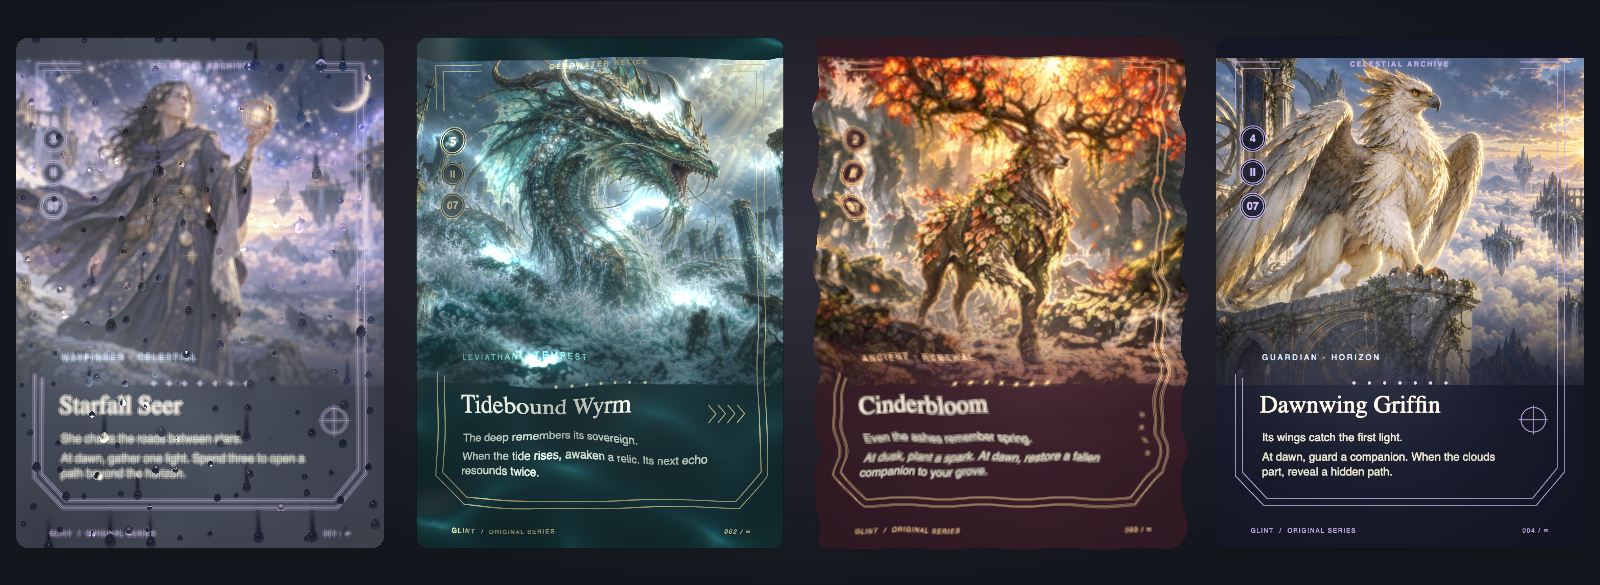
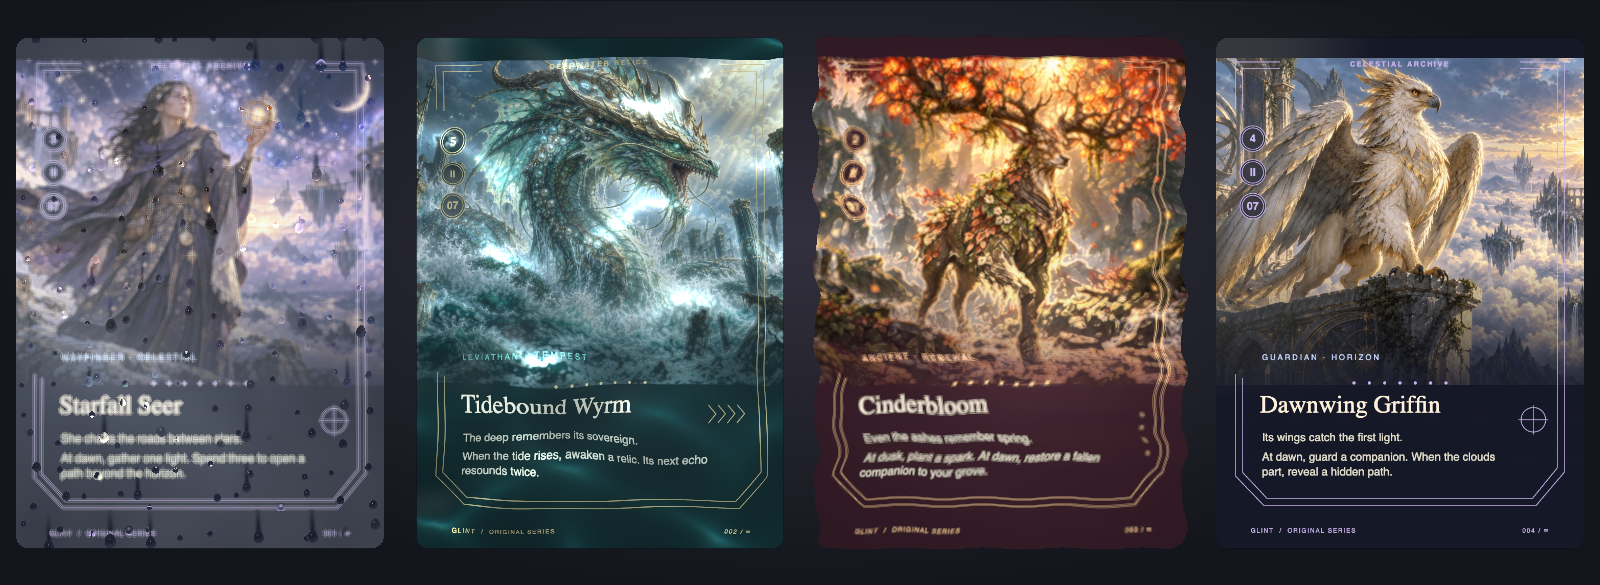
Replace gloss with fixed softbox lighting and strengthen it ten percent

Changed region(s): [[0.7812, 0.3077, 0.9375, 0.7077], [0.75, 0.0615, 0.8125, 0.1538], [0.7812, 0.2154, 0.8125, 0.2462]]

diff --git a/packages/browser/src/gpu/foil-preview-shader.ts b/packages/browser/src/gpu/foil-preview-shader.ts
@@ -6,7 +6,7 @@ import { STUDIO_GLOSS_GLSL } from './studio-gloss-shader.js';
 // Shared by the DOM motion fixture and the 3D card face pass. Preview finishes
 // are presentation settings, not inventory finish identifiers.
 export function foilShader(
-  options: { artWindows?: 'array' | 'pair'; liquid?: boolean; studioGloss?: boolean } = {},
+  options: { artWindows?: 'array' | 'pair'; liquid?: boolean } = {},
 ): string {
   const artWindow =
     options.artWindows === 'pair'
@@ -32,7 +32,7 @@ uniform float hasWave;
 vec3 previewInk(vec3 c) { return mix(c*12.92,1.055*pow(max(c,vec3(0.)),vec3(1./2.4))-.055,step(vec3(.0031308),c)); }
 vec3 previewLinear(vec3 c) { return mix(c/12.92,pow(max((c+.055)/1.055,vec3(0.)),vec3(2.4)),step(vec3(.04045),c)); }
 ${FOIL_REFLECTION_GLSL}
-${options.studioGloss ? STUDIO_GLOSS_GLSL : ''}
+${STUDIO_GLOSS_GLSL}
 ${artWindow}
 // Gameplay mask alpha is stored unchanged in a linear R8 red channel.
 float etchMask(vec2 uv) { return texture2D(mask,uv).r*hasMask; }
@@ -124,7 +124,7 @@ const vec2 dirNeg35=vec2(.8191520,-.5735764);
 vec3 previewFoil(vec2 uv, vec3 normal, vec3 view) {
   vec3 base=previewInk(texture2D(face,uv).rgb);
   if(previewKind<.5) return base;
-  ${options.studioGloss ? 'if(previewKind==8.) return studioGloss(base,normal,normalize(studioCamera.xyz-studioPosition*studioCamera.w),studioPosition);' : ''}
+  if(previewKind==8.) return studioCardGloss(uv,base,normal);
   vec2 cardUv=vec2(uv.x,1.-uv.y);
   vec2 ptr=foilPointer(normal);
   vec2 bg=foilSweepOffset(ptr);
@@ -138,20 +138,6 @@ vec3 previewFoil(vec2 uv, vec3 normal, vec3 view) {
   vec3 lamp=normalize(vec3((ptr-.5)*vec2(1.35,-1.35)+vec2(-.28,.36),1.));
 
   if(previewKind==9.)return holofoil(uv,base,normal,view,317./4294967295.,holofoilGrainFilter);
-  if(previewKind==8.) {
-    // Glossy card finish: pack-fresh clear varnish sheen + soft radial studio glare + subtle ink-gloss catch.
-    float sweep=dot(cardUv*vec2(.86,1.20)-(bg-.5)*1.25,dir133)-.42;
-    float coatBand=exp(-(sweep*sweep)*5.5);
-    float stripAxis=satinStripAxis(uv,normal,view);
-    float strip=exp(-(stripAxis*stripAxis)*34.);
-    float fineLine=smoothstep(.28,.90,etched)*art;
-    float frameLines=smoothstep(.74,.96,etched*(1.-art));
-    float inkGloss=1.+clamp(fineLine*.22+frameLines*.34,0.,1.);
-    vec3 clearCoat=vec3(.97,.98,1.)*((.032+coatBand*.092+strip*.062)*spot+innerCore*.052)*inkGloss;
-    vec3 res=foilSheenBlend(base,clearCoat*(1.+satinHoverGain*.25));
-    // Keep clear varnish slightly softer independently of optional cardstock.
-    return mix(base,applyStudioGlare(res,rT,.52),.9);
-  }
   if(previewKind==1.) {
     // Etched gold foil: embossed contour bevels, warm champagne-gold leaf, and micro-sparkle (+10% gold highlight).
     float fineLine=smoothstep(.24,.88,etched)*art;

diff --git a/packages/browser/src/gpu/shaders.ts b/packages/browser/src/gpu/shaders.ts
@@ -23,7 +23,7 @@ flat out float printArtwork;
 flat out float rainFogDensity;
 uniform mat4 viewProjection;
 out vec2 v_uv;out vec3 v_normal;flat out float previewKind;flat out vec2 wearInfo;
-out vec3 studioPosition;flat out vec4 studioCamera;
+out vec3 studioPosition;flat out vec4 studioCamera;flat out float studioVirtual;
 flat out vec4 surfaceInfo;flat out vec4 ripple0;flat out vec4 ripple1;flat out vec4 ripple2;flat out vec4 ripple3;
 void main(){
 vec2 pad=instanceSurface.w*vec2(1.,.18);
@@ -34,17 +34,18 @@ rainFogDensity=instanceRainFog.x;printArtwork=instanceRainFog.y;
 surfaceInfo=instanceSurface;ripple0=instanceRipple0;ripple1=instanceRipple1;ripple2=instanceRipple2;ripple3=instanceRipple3;
 vec4 world=model*vec4(local,0.,1.);
 studioPosition=world.xyz/world.w;
+studioVirtual=viewProjection==mat4(1.)?1.:0.;
 vec4 eye=inverse(viewProjection)*vec4(0.,0.,1.,0.);
 studioCamera=abs(eye.w)>.00001?vec4(eye.xyz/eye.w,1.):vec4(normalize(eye.xyz),0.);
 gl_Position=viewProjection*world;}`;
-const foil = foilShader({ studioGloss: true })
+const foil = foilShader()
   .replace('uniform float previewKind;', 'flat in float previewKind;')
   .replaceAll('texture2D(mask,uv).r*hasMask', 'edgeCoverage(uv)')
   .replaceAll('texture2D(face,', 'printFace(');
 export const fragment = `#version 300 es
 precision highp float;
 in vec2 v_uv;in vec3 v_normal;flat in vec2 wearInfo;
-in vec3 studioPosition;flat in vec4 studioCamera;
+in vec3 studioPosition;flat in vec4 studioCamera;flat in float studioVirtual;
 uniform sampler2D face;uniform sampler2D mask;uniform sampler2D overlay;uniform sampler2D coverage;
 uniform vec2 overlayFoil;
 uniform vec2 pointer;uniform vec4 artBounds[8];
@@ -91,7 +92,10 @@ void main(){
  vec2 corner=abs((uv-.5)*vec2(1.,aspect))-(vec2(.5,aspect*.5)-cornerRadius);
  if(length(max(corner,0.))+min(max(corner.x,corner.y),0.)-cornerRadius>0.)discard;
  vec3 view=normalize(vec3((uv-.5)*vec2(-.65,-.90),1.));
- vec3 shaded=previewLinear(previewKind>=5. && previewKind<8. ? animatedSurface(uv,normalize(v_normal)) : previewFoil(uv,normalize(v_normal),view));
+ vec3 optical;
+ if(previewKind==8. && studioVirtual<.5)optical=studioGloss(previewInk(printFace(uv).rgb),normalize(v_normal),normalize(studioCamera.xyz-studioPosition*studioCamera.w),studioPosition);
+ else optical=previewKind>=5. && previewKind<8. ? animatedSurface(uv,normalize(v_normal)) : previewFoil(uv,normalize(v_normal),view);
+ vec3 shaded=previewLinear(optical);
  vec3 base=printFace(uv).rgb;
  if(cardstockAmount>0. && previewKind>.5)shaded=previewLinear(cardstockGloss(uv,previewInk(base),previewInk(shaded)));
  if(wearInfo.x>0.) {

diff --git a/packages/browser/src/gpu/studio-gloss-shader.ts b/packages/browser/src/gpu/studio-gloss-shader.ts
@@ -1,4 +1,4 @@
-/** Experimental clear varnish in a fixed studio, measured in card heights.
+/** Clear varnish in a fixed studio, measured in card heights.
  * Reflect a soft rectangular emitter; cursor and time do not move the lamp.
  * This is a blurred area-reflection approximation, not a GGX integration. */
 export const STUDIO_GLOSS_GLSL = `
@@ -22,8 +22,18 @@ vec3 studioGloss(vec3 ink, vec3 normal, vec3 view, vec3 position) {
   float g2=grazing*grazing;
   float fresnel=.035+.965*g2*g2*grazing;
   // Restrained pack-fresh varnish, with a nearly neutral softbox reflection.
-  vec3 reflected=vec3(1.00,.99,.97)*source*fresnel*.78;
+  vec3 reflected=vec3(1.00,.99,.97)*source*fresnel*.78*1.10;
   vec3 linearInk=previewLinear(ink);
   return previewInk(clamp(linearInk*(1.-source*fresnel*.15)+reflected,0.,1.));
+}
+// Normal-only / 2D hosts use an upright virtual card and a finite studio camera.
+// The native 3D pass instead supplies actual world positions and its own camera.
+vec3 studioCardGloss(vec2 uv, vec3 ink, vec3 normal) {
+  vec3 n=normalize(normal);
+  float cy=max(length(n.yz),.0001);
+  float sx=-n.y/cy,cx=n.z/cy;
+  vec3 right=vec3(cy,sx*n.x,-cx*n.x),up=vec3(0.,cx,sx);
+  vec3 position=right*((uv.x-.5)/aspect)+up*(uv.y-.5);
+  return studioGloss(ink,n,normalize(vec3(0.,0.,2.1)-position),position);
 }
 `;

diff --git a/docs/optical-surfaces.md b/docs/optical-surfaces.md
@@ -5,8 +5,9 @@ Each treatment has a small shader module under `packages/browser/src/gpu`.
 
 ## Gloss and foil
 
-`gloss` adds a clear varnish reflection and a broad studio highlight without a
-rainbow pigment tint. Prismatic foil mixes two directional mylar spectra; cold
+`gloss` reflects a fixed softbox through restrained clear varnish. The reflection
+moves with the surface pose and can leave the face; cursor position and elapsed
+time alone do not move the light. Prismatic foil mixes two directional mylar spectra; cold
 foil uses a silver response, and Opal combines nacre colors with contour relief.
 These treatments reuse the prepared face, edge mask and coverage textures.
 They do not allocate resources or read pixels while a card moves.
@@ -93,3 +94,19 @@ CI checks silhouette pixels against Rust picking, overlap, masks, exports,
 anchored window scenes, card-attached painted floors, light/dark floor contrast,
 traveling caustics and cache/pass reuse. These are software-rendered correctness tests,
 not hardware FPS or proof of physical accuracy.
+
+## Gloss coordinates
+
+The native 3D pass uses world positions, world-space surface normals and a camera
+recovered from the view-projection matrix. Normalized 2D scenes with the identity
+view-projection use an upright virtual studio, with a camera 2.1 card heights
+away. The public `foilShader()` helper uses that same virtual studio for gloss,
+so existing host materials need no new uniforms. Hosts should supply the actual
+posed normal even for ordinary gloss; pointer movement alone no longer drives it.
+The virtual studio assumes no independent in-plane rotation. Native 3D scenes
+with a real view-projection retain the complete geometry and camera.
+
+The light is an analytic blurred rectangle, approximating a rough coating rather
+than integrating a GGX BRDF. Cardstock keeps its stable grain. Other foil and
+living treatments retain their own lighting. Gloss changes do not affect flat
+printing calibration scores.

diff --git a/docs/experiments/studio-gloss.md b/docs/experiments/studio-gloss.md
@@ -1,7 +1,7 @@
 # Softbox gloss experiment
 
-This branch tests restrained clear varnish on the right card of the private
-three-card frame preview. The two controls keep their frozen renderer. Frame
+The approved softbox treatment now replaces the old gloss effect, with a 10%
+strength increase. All three cards in the private frame preview share it. Frame
 assets, flat overlays and accuracy scores are unchanged; this is not a release.
 
 The native face pass receives surface positions and a camera recovered from the
@@ -11,18 +11,18 @@ sets its strength. This is an area-reflection approximation, not integrated GGX.
 The lamp is defined in card-height world units. Pointer position and elapsed time
 have no direct lighting effect. Existing cardstock modulates the coating.
 
-The private page previously combined projection and model transforms. Its right
-card now separates them while retaining exactly the same projected geometry.
-Its surface normal follows the actual transformed plane. A separate renderer
-keeps the two controls on their original lighting. The experiment adds no public
-finish enum or new host API. Preview export uses the same virtual studio.
+The preview uses the normalized 2D virtual studio with physical posed normals.
+Its visual tilt and optical normal use the same bounded angles: vertical rotation
+is reduced from 17.2° to 14.9°, horizontal rotation retains 21.8°, and the combined
+angle is capped at 22°. The card motion springs remain host-owned. All three
+cards again share one renderer and one lighting model; export uses that model.
 
 Prepare a new local directory from the existing private preview:
 
 ```sh
 npm run build
 node games/magic/tools/accuracy/studio-gloss-preview.mjs \
-  BASE_SITE NEW_SITE dist/lib
+  BASE_SITE NEW_SITE dist/lib SURFACE_POSE
 python3 -m http.server --directory NEW_SITE
 node tests/studio-gloss.mjs
 ```

diff --git a/docs/host-integration.md b/docs/host-integration.md
@@ -101,6 +101,13 @@ It provides linear RGB face samples and unmodified mask alpha in a linear R8
 texture. `previewFoil(uv, normal, view)` returns sRGB; `previewLinear` converts it
 for a host that performs output color conversion.
 
+Gloss uses a fixed virtual softbox and camera, deriving a posed card from the
+supplied normal. Supply the actual surface normal for gloss as well as foil;
+pointer movement alone no longer moves its reflection. Normals use world Y up;
+a host with a CSS Y-down normal must convert that axis. Native 3D scenes with a
+non-identity view-projection use their actual surface positions and camera.
+The gloss helper adds no required uniforms or samplers.
+
 The shader declares `previewKind` (0 ordinary, 1 etched, 2 prismatic, 3 cold,
 4 opal, 8 gloss, 9 holofoil), `satinCompact`, `satinHoverGain`, `wave` and `hasWave`. Pointer defaults to
 (0.5,0.5), with normals/view normalized in the same coordinate system. Aspect is
